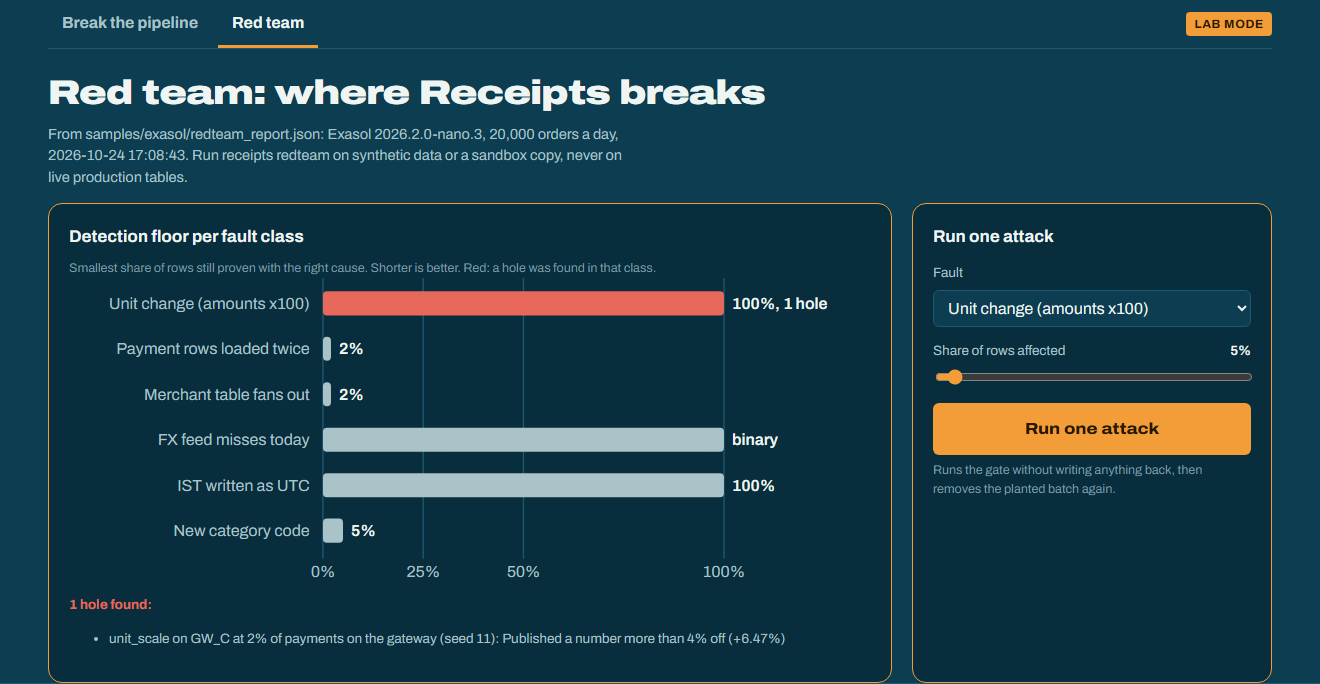
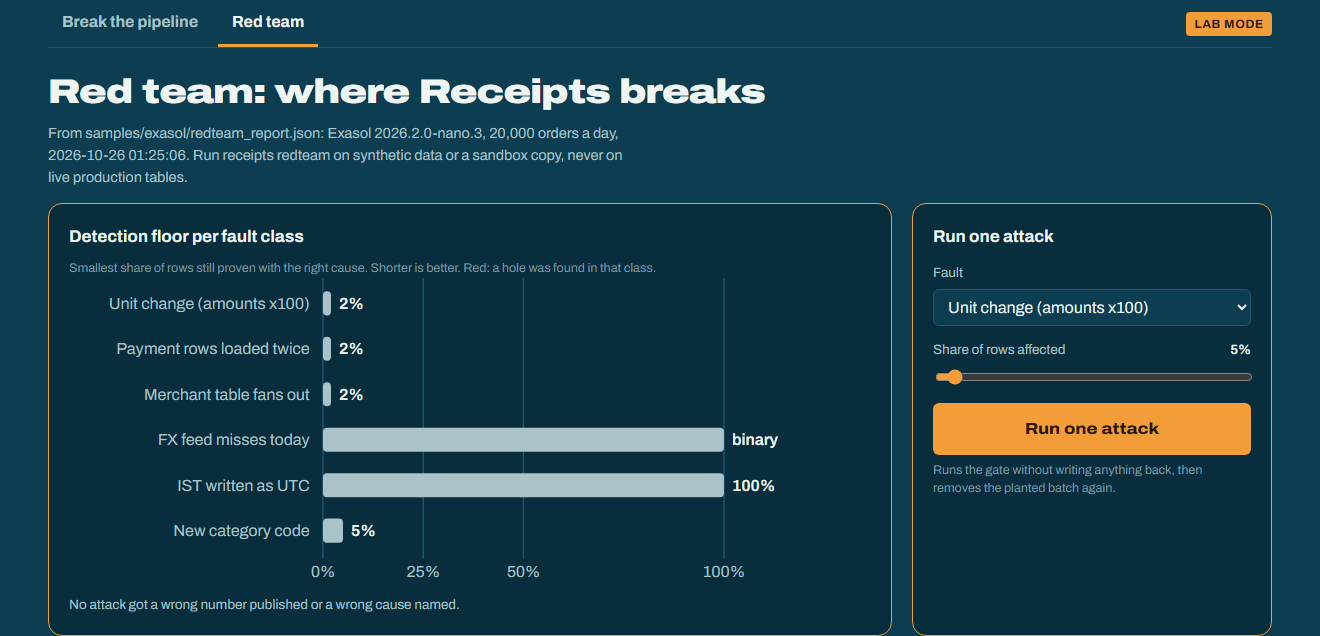
Retake the red team screenshot after the unit tail check
Add --only redteam to the capture script so one screenshot can be retaken
without rebuilding the data or overwriting the others.

diff --git a/scripts/capture_screenshots.py b/scripts/capture_screenshots.py
@@ -7,6 +7,8 @@ starts clean. DAY defaults to the server's incoming day (yesterday in India), so
 a current date. Run with the same RECEIPTS_* / EXA_* variables as the server:
 
     python scripts/capture_screenshots.py --url http://127.0.0.1:8000
+
+`--only redteam` retakes just 09_redteam.png (no rebuild; the tab reads the committed red team report).
 """
 
 from __future__ import annotations
@@ -49,11 +51,20 @@ def shot(target, name: str) -> None:
     print(f"{name}: {path.stat().st_size // 1024} KB")
 
 
+def redteam(page: Page) -> None:
+    page.click("#tab-redteam")
+    page.wait_for_selector("#rt-chart svg")
+    page.evaluate("document.querySelector('#lab').scrollIntoView({block: 'start'})")
+    page.wait_for_timeout(500)
+    shot(page.locator("#lab"), "09_redteam.png")
+
+
 def main() -> None:
     ap = argparse.ArgumentParser()
     global DAY
     ap.add_argument("--url", default="http://127.0.0.1:8000")
     ap.add_argument("--day", help="incoming day, YYYY-MM-DD (default: the one the server holds)")
+    ap.add_argument("--only", choices=["redteam"], help="retake one screenshot only")
     a = ap.parse_args()
     url = a.url
     import json
@@ -65,6 +76,12 @@ def main() -> None:
     with sync_playwright() as p:
         browser = p.chromium.launch()
         page = browser.new_page(viewport={"width": 1440, "height": 900}, reduced_motion="reduce")
+
+        if a.only == "redteam":
+            open_page(page, url)
+            redteam(page)
+            browser.close()
+            return
 
         rebuild()
         open_page(page, url)
@@ -108,10 +125,7 @@ def main() -> None:
         page.evaluate("document.querySelector('#lab').scrollIntoView({block: 'start'})")
         page.wait_for_timeout(800)
         shot(page.locator("#lab"), "08_break_it.png")
-        page.click("#tab-redteam")
-        page.wait_for_selector("#rt-chart svg")
-        page.wait_for_timeout(500)
-        shot(page.locator("#lab"), "09_redteam.png")
+        redteam(page)
         browser.close()
 
 
